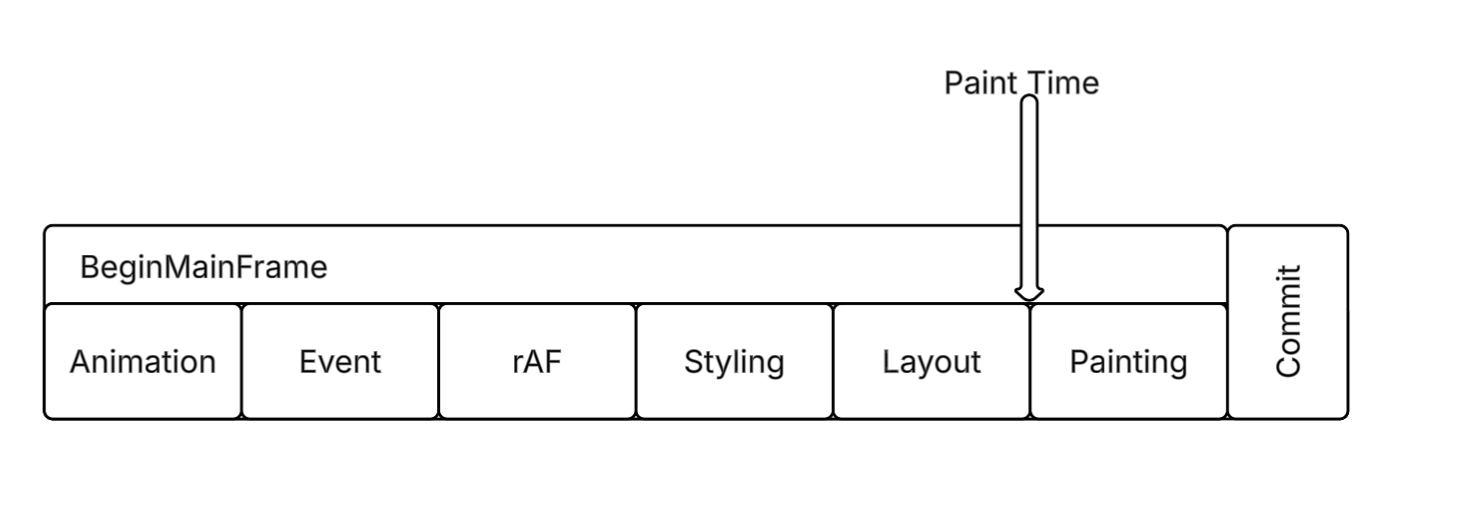
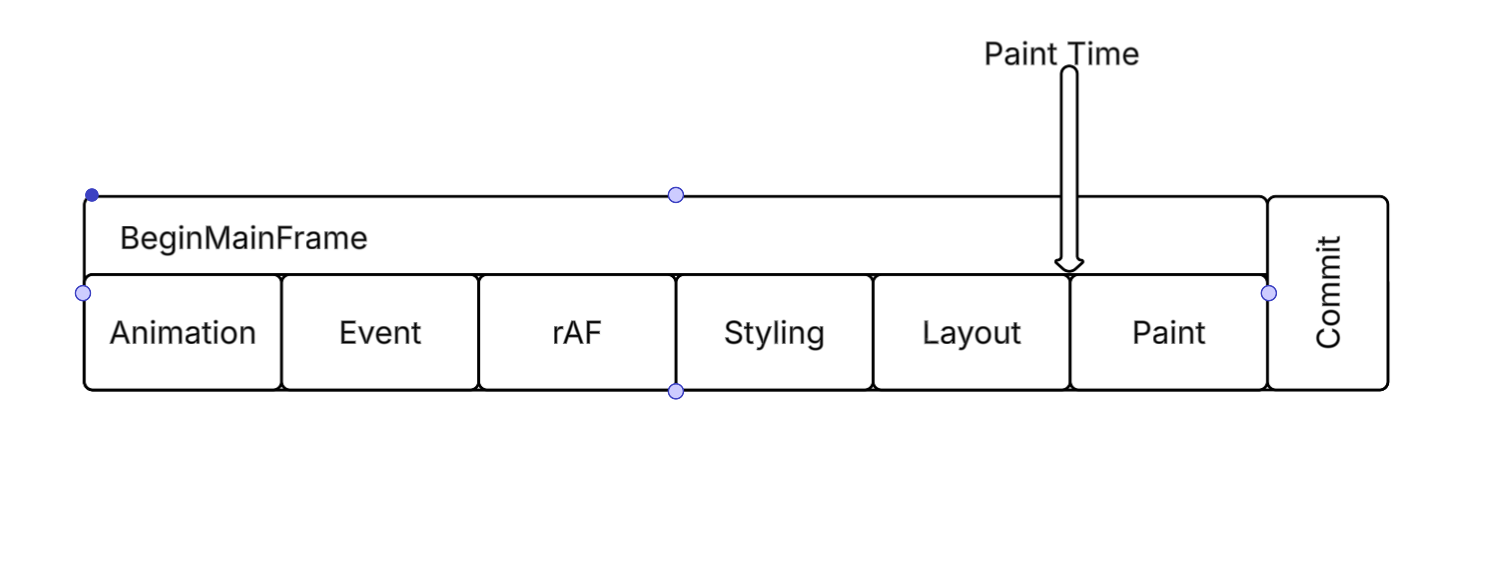
Refine Problem section and update paint-time diagram

Changed region(s): [[0.031, 0.0587, 0.9312, 0.8219]]

diff --git a/performanceMarkPaintTime/explainer.md b/performanceMarkPaintTime/explainer.md
@@ -1,6 +1,6 @@
 # performance.markPaintTime() Explainer
 
-Authors:  [Wangsong Jin](https://github.com/JosephJin0815) - Engineer at Microsoft Edge
+Author:  [Wangsong Jin](https://github.com/JosephJin0815) - Engineer at Microsoft Edge
 
 ## Status of this Document
 
@@ -39,72 +39,68 @@ The platform already captures paint and presentation timestamps for key moments 
 
 ## The Problem
 
-Without an on-demand API, developers resort to workarounds like double-rAF or rAF+setTimeout to approximate when the rendering update completes, but these workarounds are unreliable (see [Nolan Lawson's post](https://nolanlawson.com/2015/09/29/the-difference-between-throttling-and-debouncing/)). Furthermore, no workaround can provide `presentationTime` — the actual time when pixels appear on screen. For example, a developer measuring when a virtual DOM (vdom) change actually lands on the real DOM and renders:
+Without an on-demand API, developers resort to workarounds like double-rAF or rAF+setTimeout to approximate when the rendering update completes, but these workarounds are unreliable (see [Nolan Lawson's analysis](https://nolanlawson.com/2018/09/25/accurately-measuring-layout-on-the-web/)). Furthermore, no workaround can provide `presentationTime` — the actual time when pixels appear on screen. For example, a developer wants to measure when a chat input box appears after the page loads, but the component is rendered asynchronously by a framework. A typical pattern uses `IntersectionObserver` to detect when the element enters the viewport, then `requestAnimationFrame` to approximate the paint time:
+
+### Single requestAnimationFrame
+
+```javascript
+const observer = new IntersectionObserver((entries) => {
+  if (entries[0].isIntersecting) {
+    observer.disconnect();
+    requestAnimationFrame(() => {
+      performance.mark('chat-input-visible');
+    });
+  }
+});
+observer.observe(document.querySelector('.chat-input'));
+```
+
+Since `requestAnimationFrame` fires before the browser paints, the recorded timestamp is earlier than when the content is actually rendered. It is better than logging at the moment of the DOM update, but still only an approximation.
 
 ### Double requestAnimationFrame
 
 ```javascript
-// React component measuring vdom → DOM rendering
-function MyComponent() {
-  useLayoutEffect(() => {
-    // useLayoutEffect fires after React's DOM commit but before the browser's
-    // rendering update. Resort to double-rAF to approximate paint timing.
+const observer = new IntersectionObserver((entries) => {
+  if (entries[0].isIntersecting) {
+    observer.disconnect();
     requestAnimationFrame(() => {
       requestAnimationFrame(() => {
-        performance.mark('component-rendered');
+        performance.mark('chat-input-visible');
       });
     });
-  });
-}
+  }
+});
+observer.observe(document.querySelector('.chat-input'));
 ```
 
-This is a widely-used approach to approximate when a vdom change actually lands on the DOM. However, we cannot be guaranteed that we are looking at the frame that corresponds to the change 100% of the time. This gets worse when observers (e.g., ResizeObserver, IntersectionObserver) are present — their callbacks add work between frames, making the second rAF even less likely to land on the expected frame.
+The second rAF fires after the first frame's paint, getting closer to the actual paint time. However, there is no guarantee that this captures the frame that corresponds to the change. This gets worse when observers (e.g., `ResizeObserver`, `IntersectionObserver`) are present — their callbacks add work between frames, making the second rAF even less likely to land on the expected frame.
 
 ### requestAnimationFrame + setTimeout
 
-```javascript
-// Alternative approach used with React useLayoutEffect
-function MyComponent() {
-  useLayoutEffect(() => {
-    requestAnimationFrame(() => {
-      setTimeout(() => {
-        performance.mark('component-rendered');
-      }, 0);
-    });
-  });
-}
-```
+Another common workaround is `requestAnimationFrame` + `setTimeout`, which defers the mark to the next task after the rAF callback. This is more likely to land after the paint, but the overshoot is non-deterministic due to other queued tasks — the timestamp ends up well past the actual frame, making the measurement less precise.
 
-This is more accurate but less precise because now we are well past the frame in the next task. The overshoot is non-deterministic due to other queued tasks.
-
-Both approaches presuppose React via `useLayoutEffect` to measure "on DOM and interactive." Both workarounds exist because there is no API to get paint timing for arbitrary visual updates.
-
-### With markPaintTime:
+### With markPaintTime
 
 ```javascript
-function MyComponent() {
-  useLayoutEffect(() => {
-    performance.markPaintTime("component-rendered");
-  });
-}
-
-// Observe the result
-const observer = new PerformanceObserver((list) => {
-  for (const entry of list.getEntries()) {
-    // paintTime — captured during the rendering opportunity, after style+layout
-    // presentationTime — the time when pixels were actually shown on display
-    console.log(`Paint time: ${entry.paintTime}ms`);
-    console.log(`Presentation time: ${entry.presentationTime}ms`);
-    console.log(`Rendering latency: ${entry.paintTime - entry.startTime}ms`);
+const observer = new IntersectionObserver((entries) => {
+  if (entries[0].isIntersecting) {
+    observer.disconnect();
+    performance.markPaintTime('chat-input-visible');
   }
 });
-observer.observe({ type: "mark-paint-time" });
+observer.observe(document.querySelector('.chat-input'));
+
+new PerformanceObserver((list) => {
+  for (const entry of list.getEntries()) {
+    console.log(`Paint: ${entry.paintTime}ms`);
+    console.log(`Presented: ${entry.presentationTime}ms`);
+  }
+}).observe({ type: 'mark-paint-time' });
 ```
 
-Benefits:
-- **Accurate time**: No idle time gap, no task queue delay.
-- **Main-thread rendering cost**: `paintTime - startTime` captures the time from the call to the paint phase of the rendering update.
-- **End-to-end visual latency**: `presentationTime - startTime` captures the full latency until pixels are actually shown on the display.
+- **Accurate**: `paintTime` is captured at the rendering update, not approximated by rAF.
+- **End-to-end**: `presentationTime` tells you when pixels actually appeared on the display.
+- **Stable**: No rAF variance — the timestamp comes directly from the rendering pipeline.
 
 ## Proposed API
 
@@ -140,9 +136,9 @@ The entry reuses [`PaintTimingMixin`](https://w3c.github.io/paint-timing/#sec-Pe
 ### What developers can measure
 
 - **`startTime`**: `performance.now()` at the time `markPaintTime()` is called.
-- `paintTime - startTime` = main-thread rendering cost (how long until the browser finished processing the visual update)
-- `presentationTime - startTime` = end-to-end visual latency (how long until the user actually sees the update)
-- `presentationTime - paintTime` = off-main-thread cost (compositor + GPU time)
+- **`paintTime - startTime`** = main-thread rendering cost (how long until the browser finished processing the visual update)
+- **`presentationTime - startTime`** = end-to-end visual latency (how long until the user actually sees the update)
+- **`presentationTime - paintTime`** = off-main-thread cost (compositor + GPU time)
 
 ## Key Design Decisions
 
